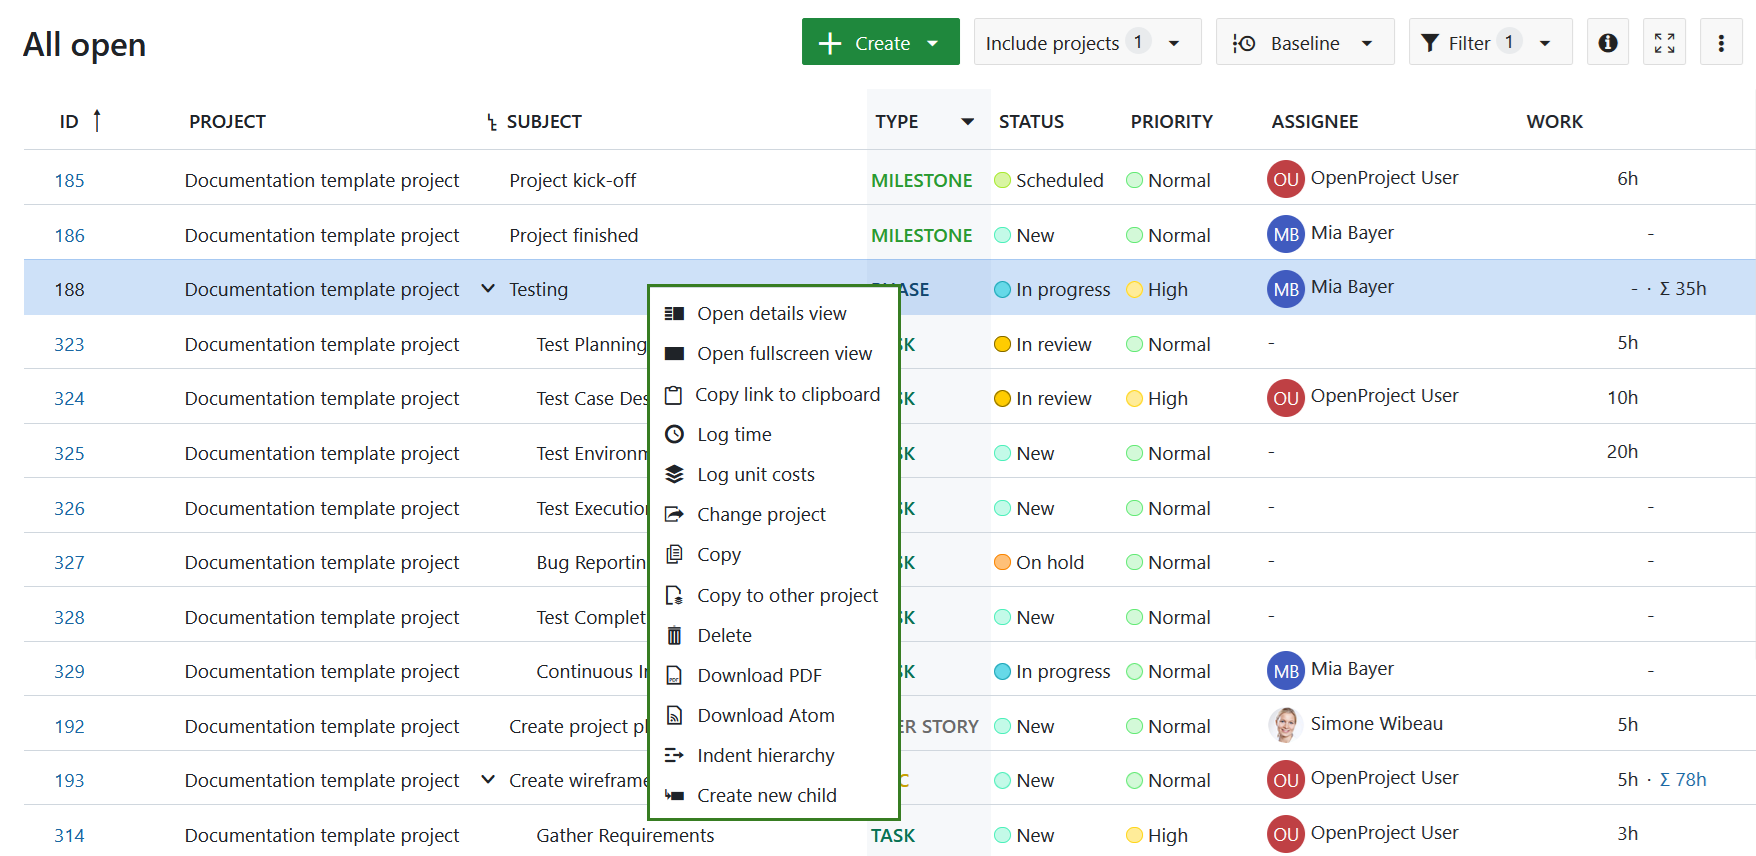
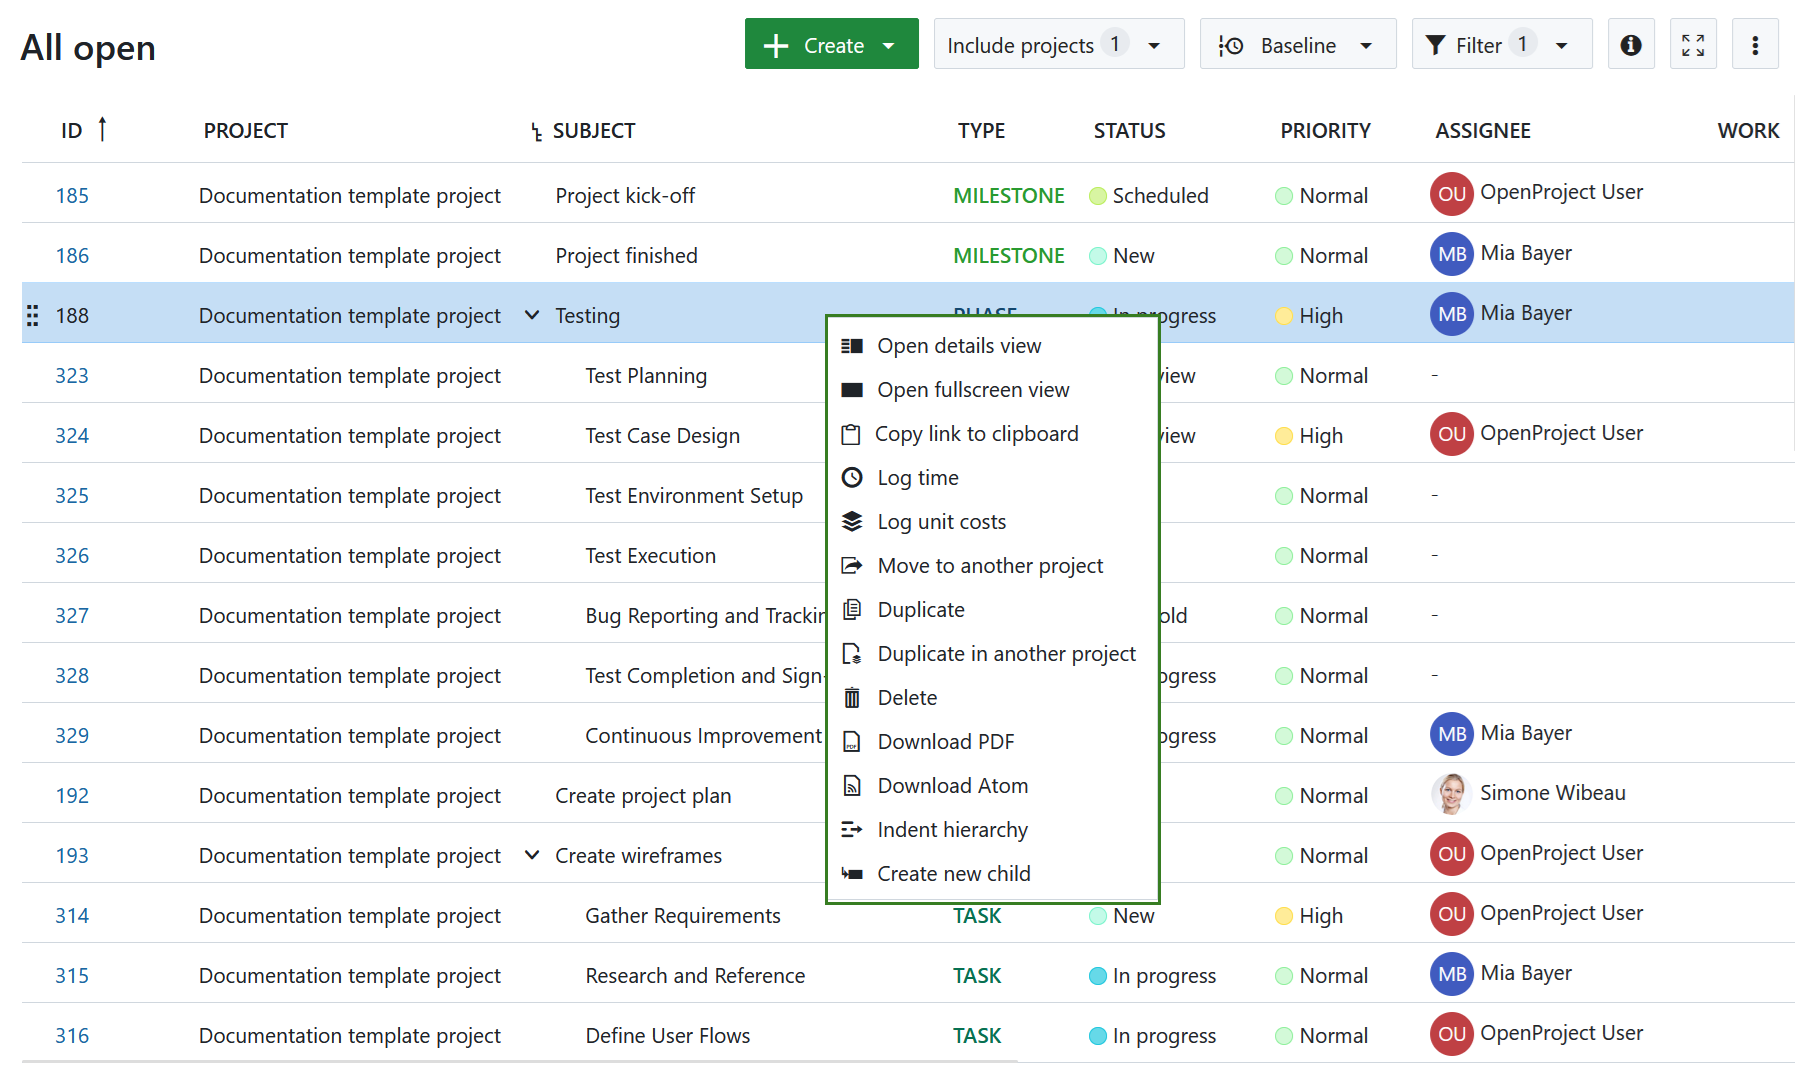
docs update 14.5

diff --git a/docs/user-guide/work-packages/edit-work-package/README.md b/docs/user-guide/work-packages/edit-work-package/README.md
@@ -159,14 +159,18 @@ You have the following options:
 - **Copy link to clipboard** - copies a short link to the selected work package to your clipboard.
 - **Log time** - opens a pop-up dialogue allowing you to [log time](../../time-and-costs/time-tracking/#log-time-in-the-work-package-view) directly to a work package without having to open it first.
 - **Log unit costs** - navigates you to the cost logging screen. Once you [log the costs](../../time-and-costs/cost-tracking/) and save the entry, you will return to the work package table view.
-- **Change project** - allows moving the selected work package to a different project.
-- **Copy** - opens a details view of a new work package on the right side of the screen. This new work package is an exact copy of the work package you selected, but you can adjust any details you would like to change and then save it.
-- **Copy to other project** - allows copying the selected work package to a different project.
+- **Move to another project** - allows moving the selected work package to a different project. 
+- **Duplicate** - opens a details view of a new work package on the right side of the screen. This new work package is an exact copy of the work package you selected, but you can adjust any details you would like to change and then save it.
+- **Duplicate in another project** - allows duplicating the selected work package to a different project.
 - **Delete** - deletes a work package. You will need to confirm the deletion.
 - **Download PDF** - downloads the selected work package as a PDF file.
 - **Download Atom** - downloads the selected work package as an Atom file.
 - **Indent hierarchy** - creates a child-parent relationship with the work package directly above. The work package you selected become the child work package. The work package directly above becomes the parent work package.
 - **Create new child** - opens a new work package on the right side of the screen. This new work package already has a child relationship to the work package you selected.  
+
+> [!TIP]  
+>
+> In OpenProject 14.5 the term *Copy a work package* was replaced by *Duplicate a work package*. *Change project* was replaced by *Move to another project*.
 
 If you have opened the quick context menu for a work package that has a parent work package, you will also see:
 
